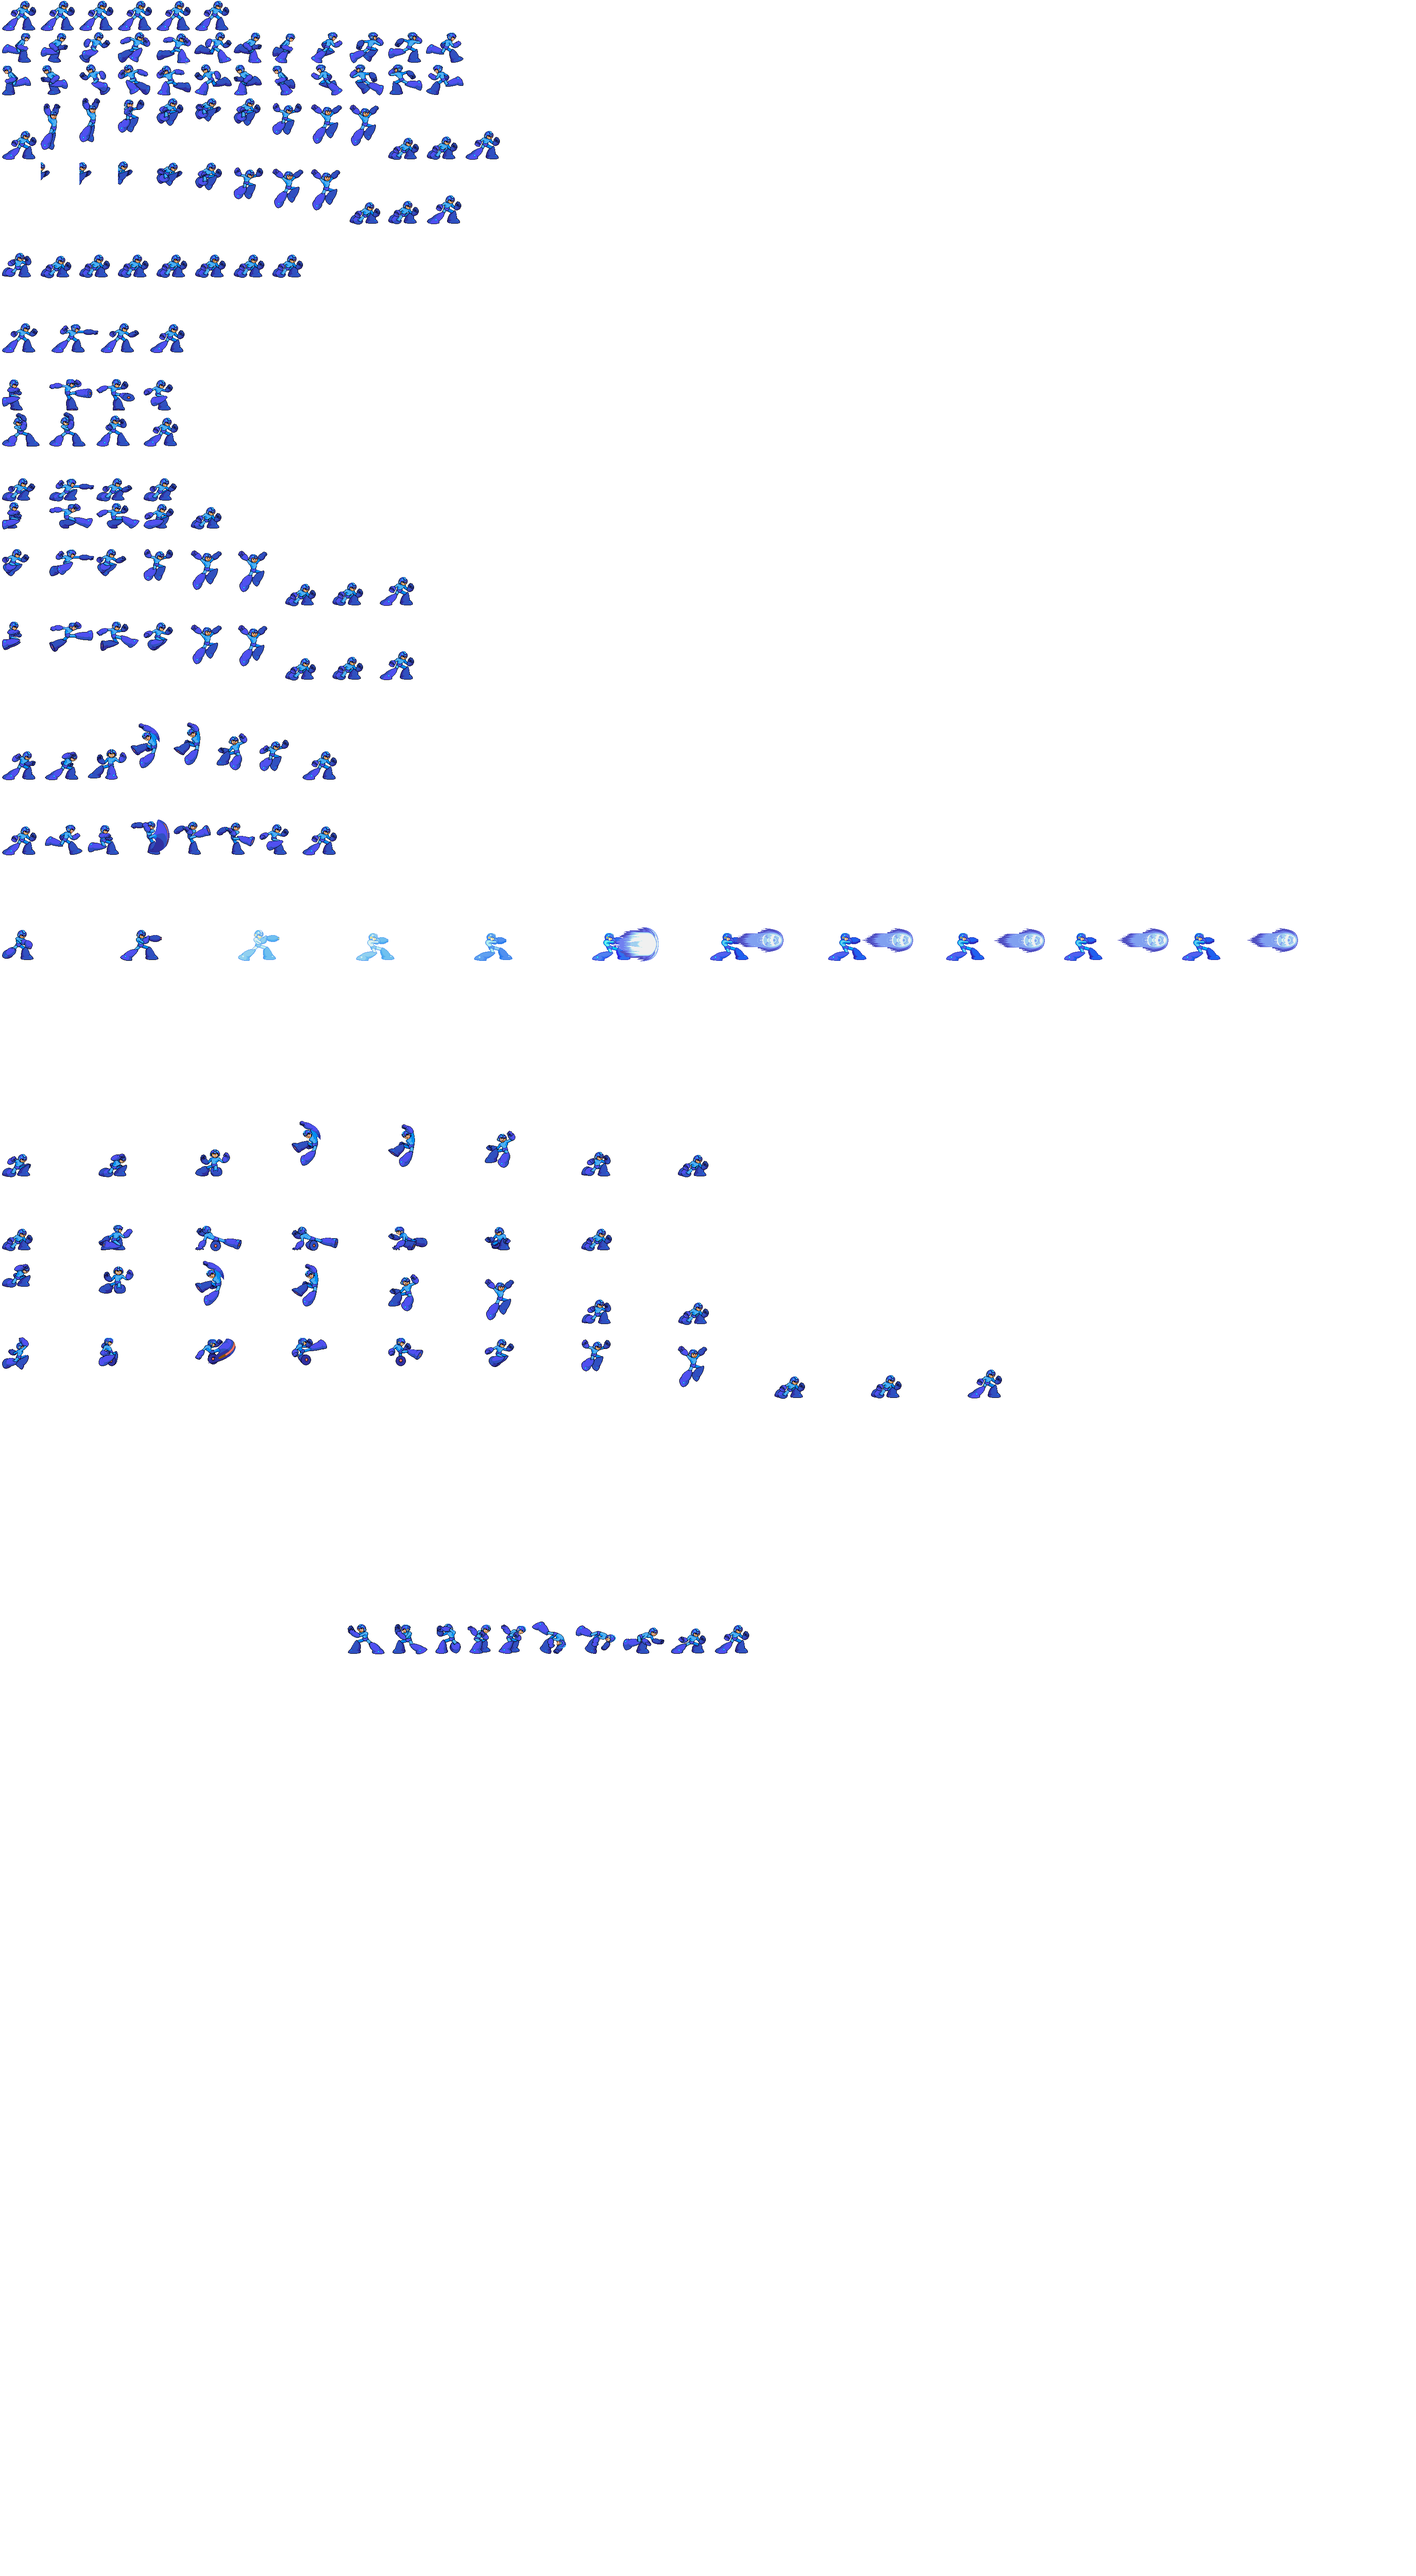
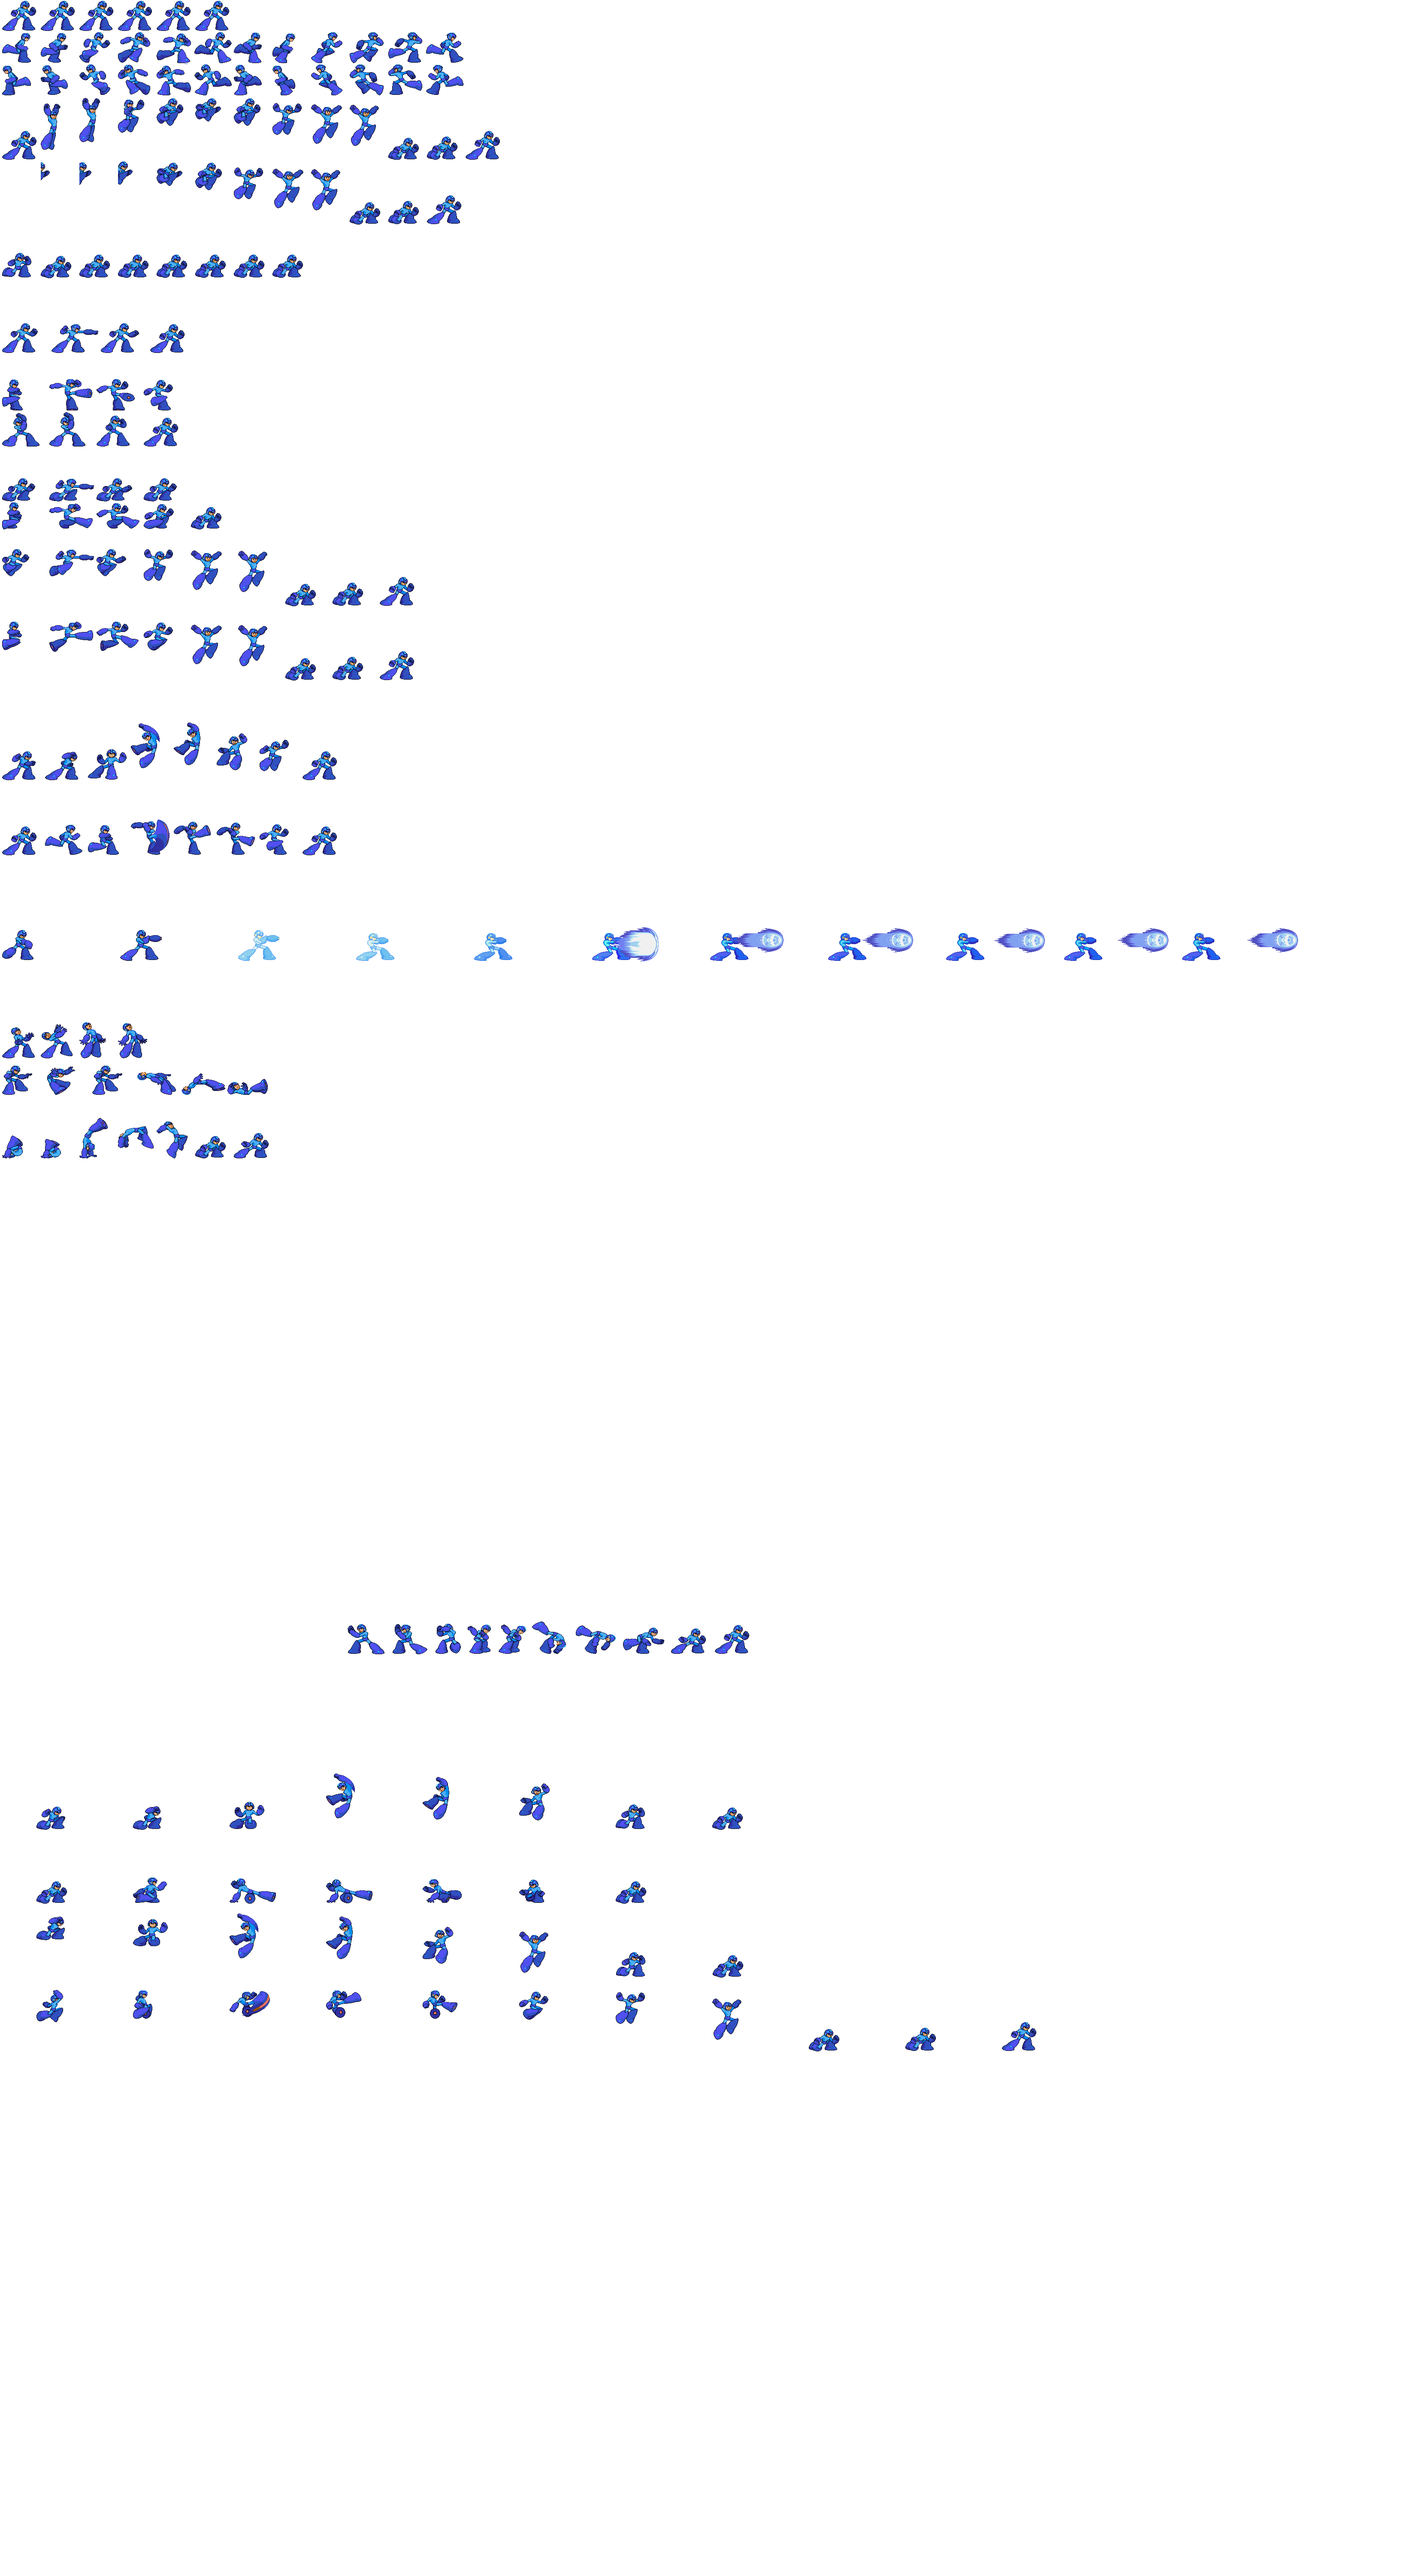
agrego animacion de megaman y venom
son los de recibir golpe y pararse

diff --git a/source/view/SpriteAnimado.cpp b/source/view/SpriteAnimado.cpp
@@ -100,11 +100,11 @@ void SpriteAnimado::cargarAnimaciones(string nombre){
 		golpeA=new Animacion("golpeA",3,0,875,220,90,8);//golpe agachado//LISTO
 		patadaA=new Animacion("patadaA",4,0,1570,215,109,8);//patada agachado//LISTO
 		defensa=new Animacion("defensa",10,0,2924,170,172,8);//LISTO
-		disparo=new Animacion("disparar",12,0,3230,275,128,4);
+		disparo=new Animacion("disparar",12,0,3230,275,128,2);//LISTO
 		tiro=new Animacion("tirar",6,0,3440,225,172,8);
-		rgolpe=new Animacion("recibirGolpe",3,0,4128,225,172,8);
-		rgolpeF=new Animacion("recibirGolpeF",5,1295,5191,179,115,20);
-		levantarse=new Animacion("levantarse",3,850,5170,112,140,20);
+		rgolpe=new Animacion("recibirGolpe",5,0,3500,170,140,2);//LISTO
+		rgolpeF=new Animacion("recibirGolpeF",3,0,3640,180,140,2);
+		levantarse=new Animacion("levantarse",6,0,3780,180,140,2);
 		boton = false;
 	}
 	else if(nombre=="MegaMan" ){
@@ -123,11 +123,11 @@ void SpriteAnimado::cargarAnimaciones(string nombre){
 		golpeA=new Animacion("golpeA",4,0,1105,110,65,8);//golpe agachado//LISTO
 		patadaA=new Animacion("patadaA",5,0,1170,110,65,8);//patada agachado//LISTO
 		defensa=new Animacion("defensa",4,0,960,110,80,8);//LISTO
-		disparo=new Animacion("disparar",11,0,2160,275,80,6);
+		disparo=new Animacion("disparar",11,0,2160,275,80,2);//LISTO
 		tiro=new Animacion("tirar",6,0,3440,225,172,8);
-		rgolpe=new Animacion("recibirGolpe",3,0,4128,225,172,8);
-		rgolpeF=new Animacion("recibirGolpeF",5,1295,5191,179,115,20);
-		levantarse=new Animacion("levantarse",3,850,5170,112,140,20);
+		rgolpe=new Animacion("recibirGolpe",4,0,2380,85,90,2);//LISTO
+		rgolpeF=new Animacion("recibirGolpeF",6,0,2465,105,85,2);//LISTO
+		levantarse=new Animacion("levantarse",7,0,2600,90,100,2);//LISTO
 		boton = false;
 	}
 	else if(nombre=="Hulk" ){
